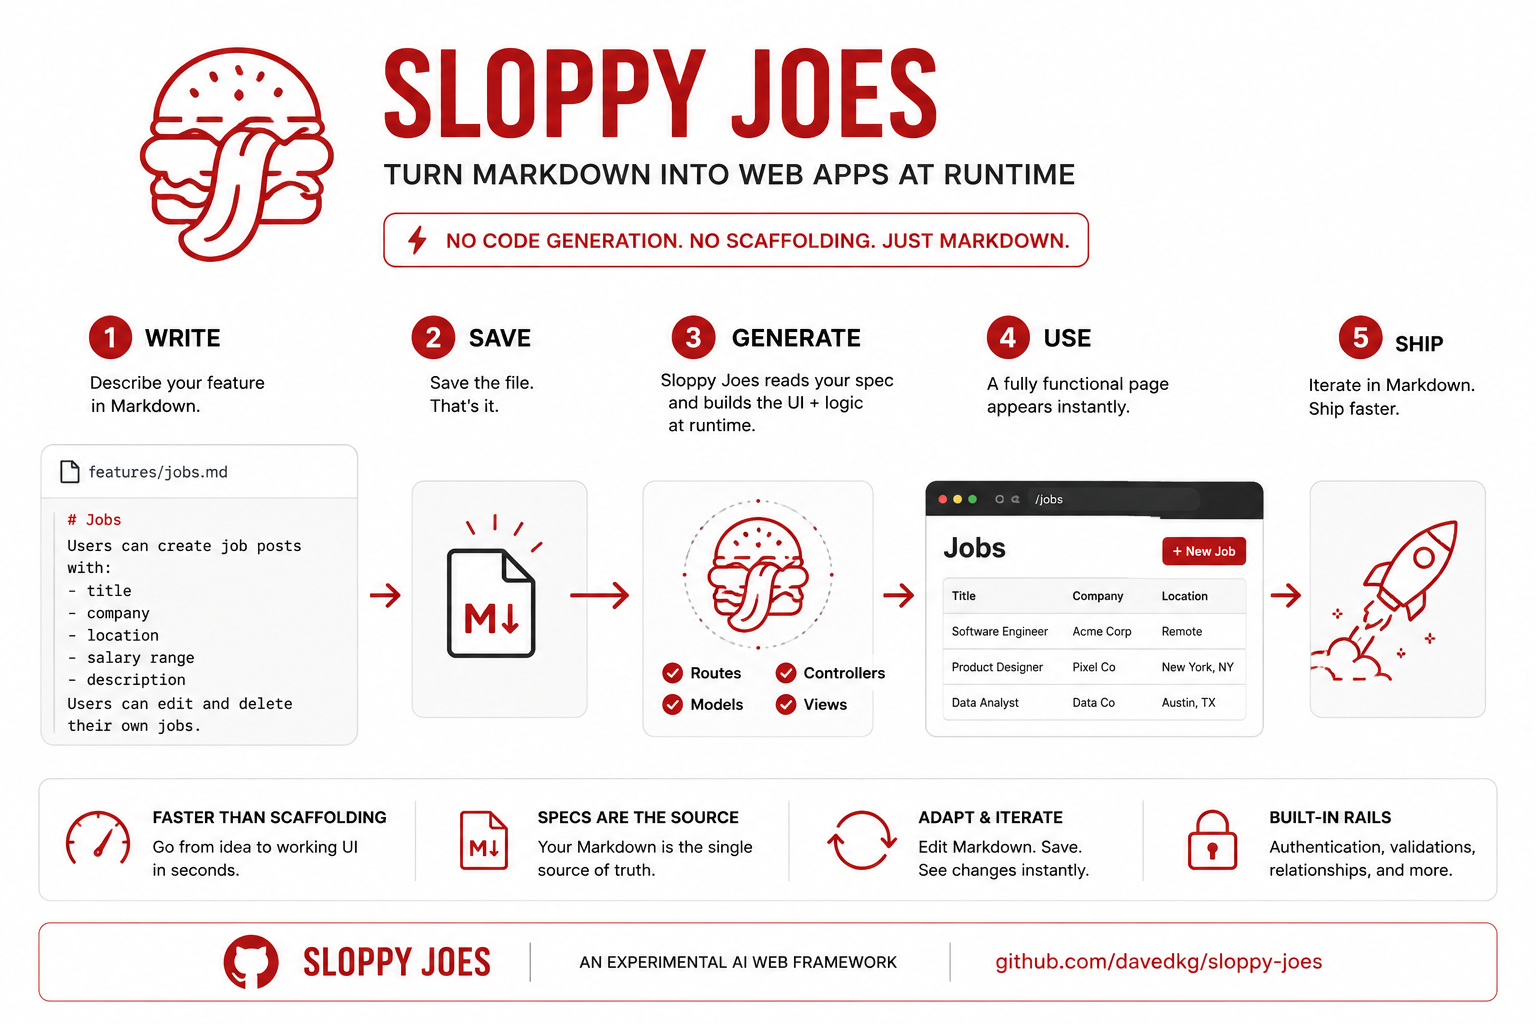
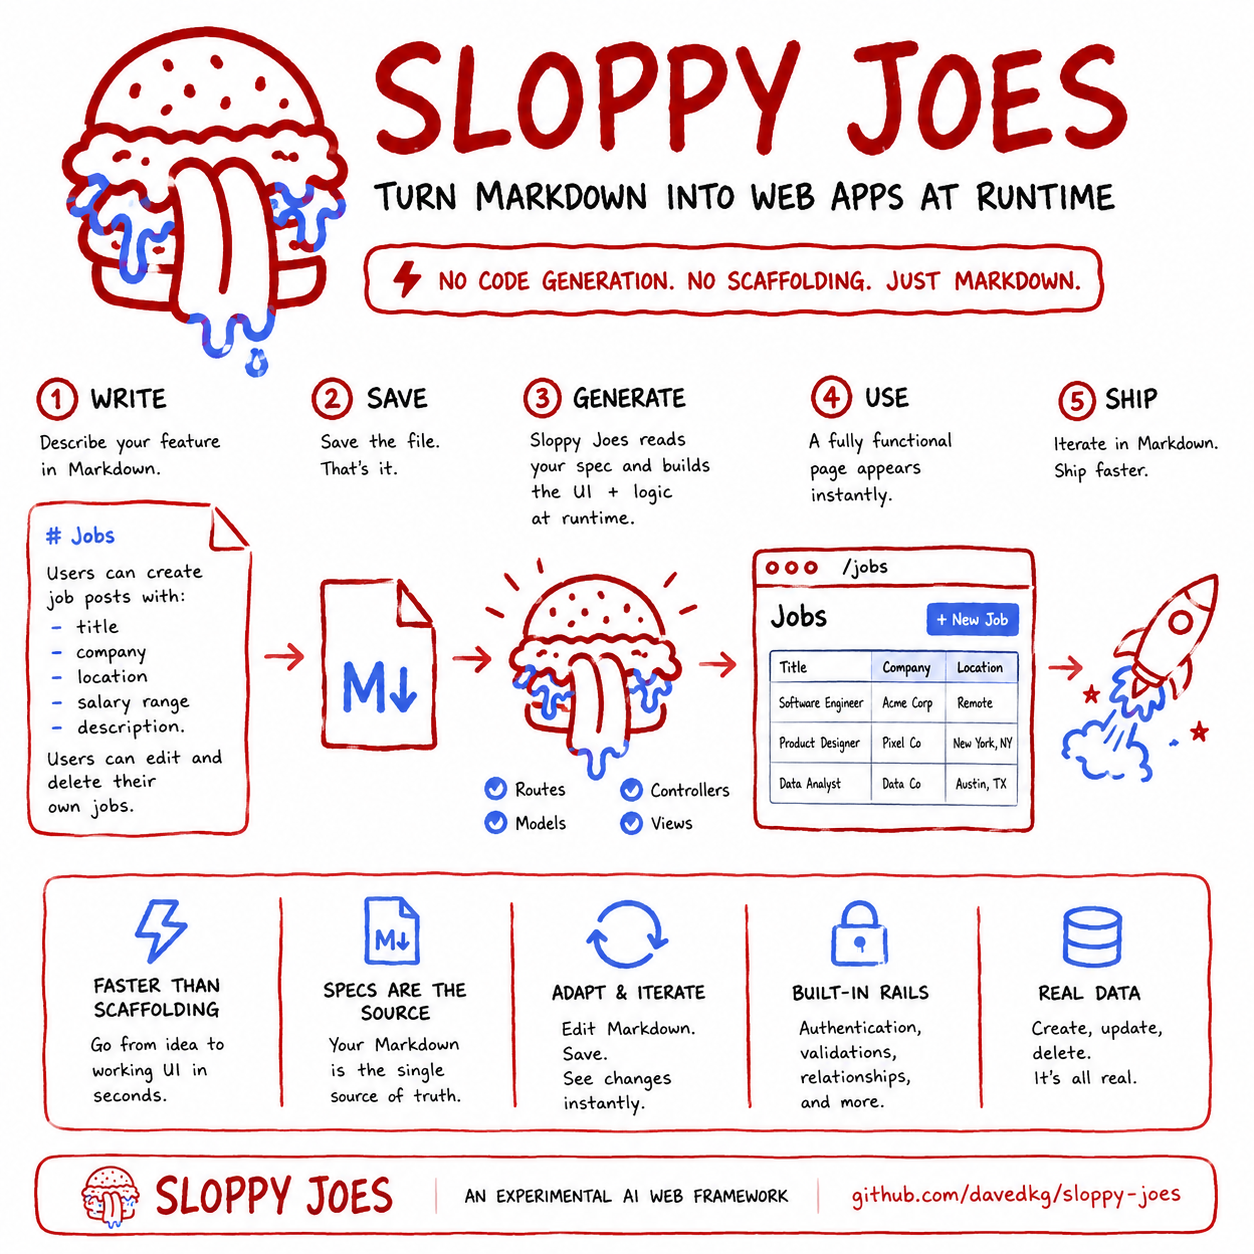
docs: update overview infographic and move it above the docs links

diff --git a/README.md b/README.md
@@ -6,12 +6,12 @@ You describe what an app should do in plain Markdown — its features, data, and
 every visit Claude generates the actual page from that description. No hand-written HTML, no build
 step, no templates. (Under the hood it's a small framework; you just never write the pages yourself.)
 
-See [`REQUIREMENTS.md`](./REQUIREMENTS.md) for the concept and [`STRUCTURE.md`](./STRUCTURE.md) for
-how an app's files are organized.
-
 <p align="center">
   <img src="assets/overview.png" alt="Sloppy Joes: write a feature in Markdown, save it, and the page is generated at runtime" width="100%">
 </p>
+
+See [`REQUIREMENTS.md`](./REQUIREMENTS.md) for the concept and [`STRUCTURE.md`](./STRUCTURE.md) for
+how an app's files are organized.
 
 ## Prerequisites
 